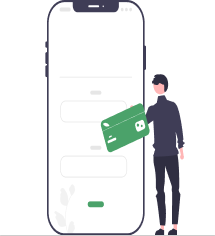
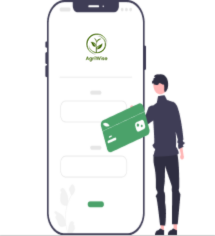
Changes in onboarding screens

diff --git a/app/_layout.tsx b/app/_layout.tsx
@@ -1,125 +1,3 @@
-// import { useFonts } from "expo-font";
-// import * as SplashScreen from "expo-splash-screen";
-// import { StatusBar } from "expo-status-bar";
-// import { useEffect, useState, useCallback } from "react";
-// import { View } from "react-native";
-// import "react-native-reanimated";
-// import AsyncStorage from "@react-native-async-storage/async-storage";
-// import { NavigationContainer } from "@react-navigation/native";
-// import { createNativeStackNavigator } from "@react-navigation/native-stack";
-// import OnboardingScreen from "./(Onboarding)";
-// import HomeScreen from "./(tabs)";
-// import { getItem } from "@/utils/asyncStorage";
-
-// SplashScreen.preventAutoHideAsync();
-
-// const Stack = createNativeStackNavigator();
-
-// export default function RootLayout() {
-//   const [appReady, setAppReady] = useState(false);
-//   const [showOnboarding, setShowOnboarding] = useState<boolean | null>(null);
-
-//   const [loaded] = useFonts({
-//     SpaceMono: require("../assets/fonts/SpaceMono-Regular.ttf"),
-//   });
-
-//   // useEffect(() => {
-//   //   const checkIfAlreadyOnboarded = async () => {
-//   //     let onBoarded = await getItem("onboarded");
-//   //     if (onBoarded == 1) {
-//   //       setShowOnboarding(false);
-//   //     } else {
-//   //       setShowOnboarding(true);
-//   //     }
-//   //   };
-//   //   checkIfAlreadyOnboarded();
-//   // }, []);
-
-//   useEffect(() => {
-//     const checkIfAlreadyOnboarded = async () => {
-//       let onBoarded = await getItem("onboarded");
-//       if (onBoarded === "1") {
-//         setShowOnboarding(false);
-//       } else {
-//         setShowOnboarding(true);
-//       }
-//     };
-//     checkIfAlreadyOnboarded();
-//   }, []);
-
-//   useEffect(() => {
-//     async function prepare() {
-//       if (loaded) {
-//         await new Promise((resolve) => setTimeout(resolve, 1000));
-//         setAppReady(true);
-//       }
-//     }
-//     prepare();
-//   }, [loaded]);
-
-//   const onLayoutRootView = useCallback(async () => {
-//     if (appReady) {
-//       await SplashScreen.hideAsync();
-//     }
-//   }, [appReady]);
-
-//   if (!appReady) {
-//     return null;
-//   }
-
-//   if (showOnboarding == null) {
-//     return null;
-//   }
-
-//   if (showOnboarding) {
-//     return (
-//       <View style={{ flex: 1 }} onLayout={onLayoutRootView}>
-//         <NavigationContainer>
-//           <Stack.Navigator initialRouteName="Onboarding">
-//             <Stack.Screen
-//               name="(Onboarding)"
-//               options={{
-//                 headerShown: false,
-//               }}
-//               component={OnboardingScreen}
-//             />
-//             <Stack.Screen
-//               name="(tabs)"
-//               options={{
-//                 headerShown: false,
-//               }}
-//               component={HomeScreen}
-//             />
-//           </Stack.Navigator>
-//         </NavigationContainer>
-//       </View>
-//     );
-//   } else {
-//     return (
-//       <View style={{ flex: 1 }} onLayout={onLayoutRootView}>
-//         <NavigationContainer>
-//           <Stack.Navigator initialRouteName="(tabs)">
-//             <Stack.Screen
-//               name="(tabs)"
-//               options={{
-//                 headerShown: false,
-//               }}
-//               component={HomeScreen}
-//             />
-//             <Stack.Screen
-//               name="(Onboarding)"
-//               options={{
-//                 headerShown: false,
-//               }}
-//               component={OnboardingScreen}
-//             />
-//           </Stack.Navigator>
-//         </NavigationContainer>
-//       </View>
-//     );
-//   }
-// }
-
 import { useFonts } from "expo-font";
 import * as SplashScreen from "expo-splash-screen";
 import { StatusBar } from "expo-status-bar";

diff --git a/app/(Onboarding)/index.tsx b/app/(Onboarding)/index.tsx
@@ -1,7 +1,7 @@
 import { setItem } from "@/utils/asyncStorage";
 import { useRouter } from "expo-router";
 import React from "react";
-import { Image } from "react-native";
+import { Image, View, StyleSheet } from "react-native";
 import Onboarding from "react-native-onboarding-swiper";
 
 const OnboardingScreen = () => {
@@ -20,7 +20,12 @@ const OnboardingScreen = () => {
         {
           backgroundColor: "#FFFFFF",
           image: (
-            <Image source={require("../../assets/images/onboarding1.png")} />
+            <View style={styles.imageWrapper}>
+              <Image
+                style={styles.imageWrapper}
+                source={require("../../assets/images/onboarding1.png")}
+              />
+            </View>
           ),
           title: "Monitoring Soil and Plant",
           subtitle:
@@ -29,7 +34,12 @@ const OnboardingScreen = () => {
         {
           backgroundColor: "#FFFFFF",
           image: (
-            <Image source={require("../../assets/images/onboarding2.png")} />
+            <View style={styles.imageWrapper}>
+              <Image
+                style={styles.imageWrapper}
+                source={require("../../assets/images/onboarding2.png")}
+              />
+            </View>
           ),
           title: "Early detection of plant and soil diseases",
           subtitle:
@@ -38,7 +48,12 @@ const OnboardingScreen = () => {
         {
           backgroundColor: "#FFFFFF",
           image: (
-            <Image source={require("../../assets/images/onboarding3.png")} />
+            <View style={styles.imageWrapper}>
+              <Image
+                style={styles.imageWrapper}
+                source={require("../../assets/images/onboarding3.png")}
+              />
+            </View>
           ),
           title: "Improve agriculture precision",
           subtitle:
@@ -48,5 +63,14 @@ const OnboardingScreen = () => {
     />
   );
 };
+
+const styles = StyleSheet.create({
+  imageWrapper: {
+    height: 200,
+    width: 200,
+    resizeMode: "contain",
+    alignSelf: "center",
+  },
+});
 
 export default OnboardingScreen;
